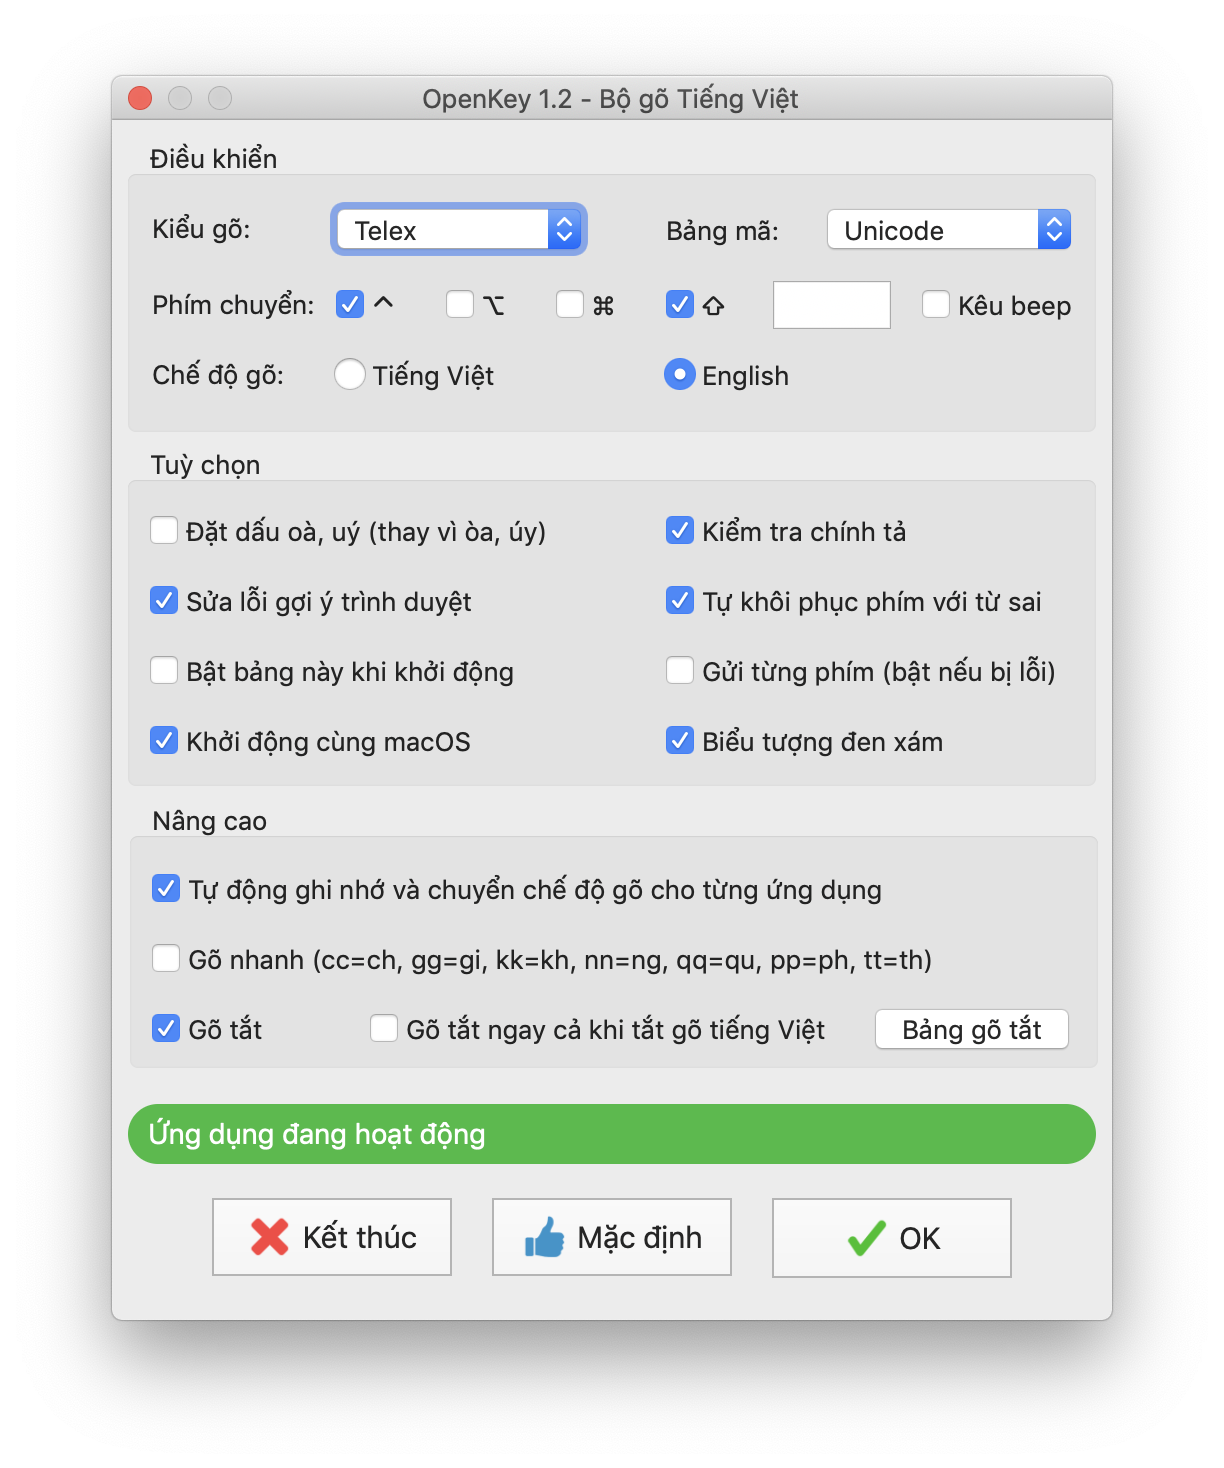
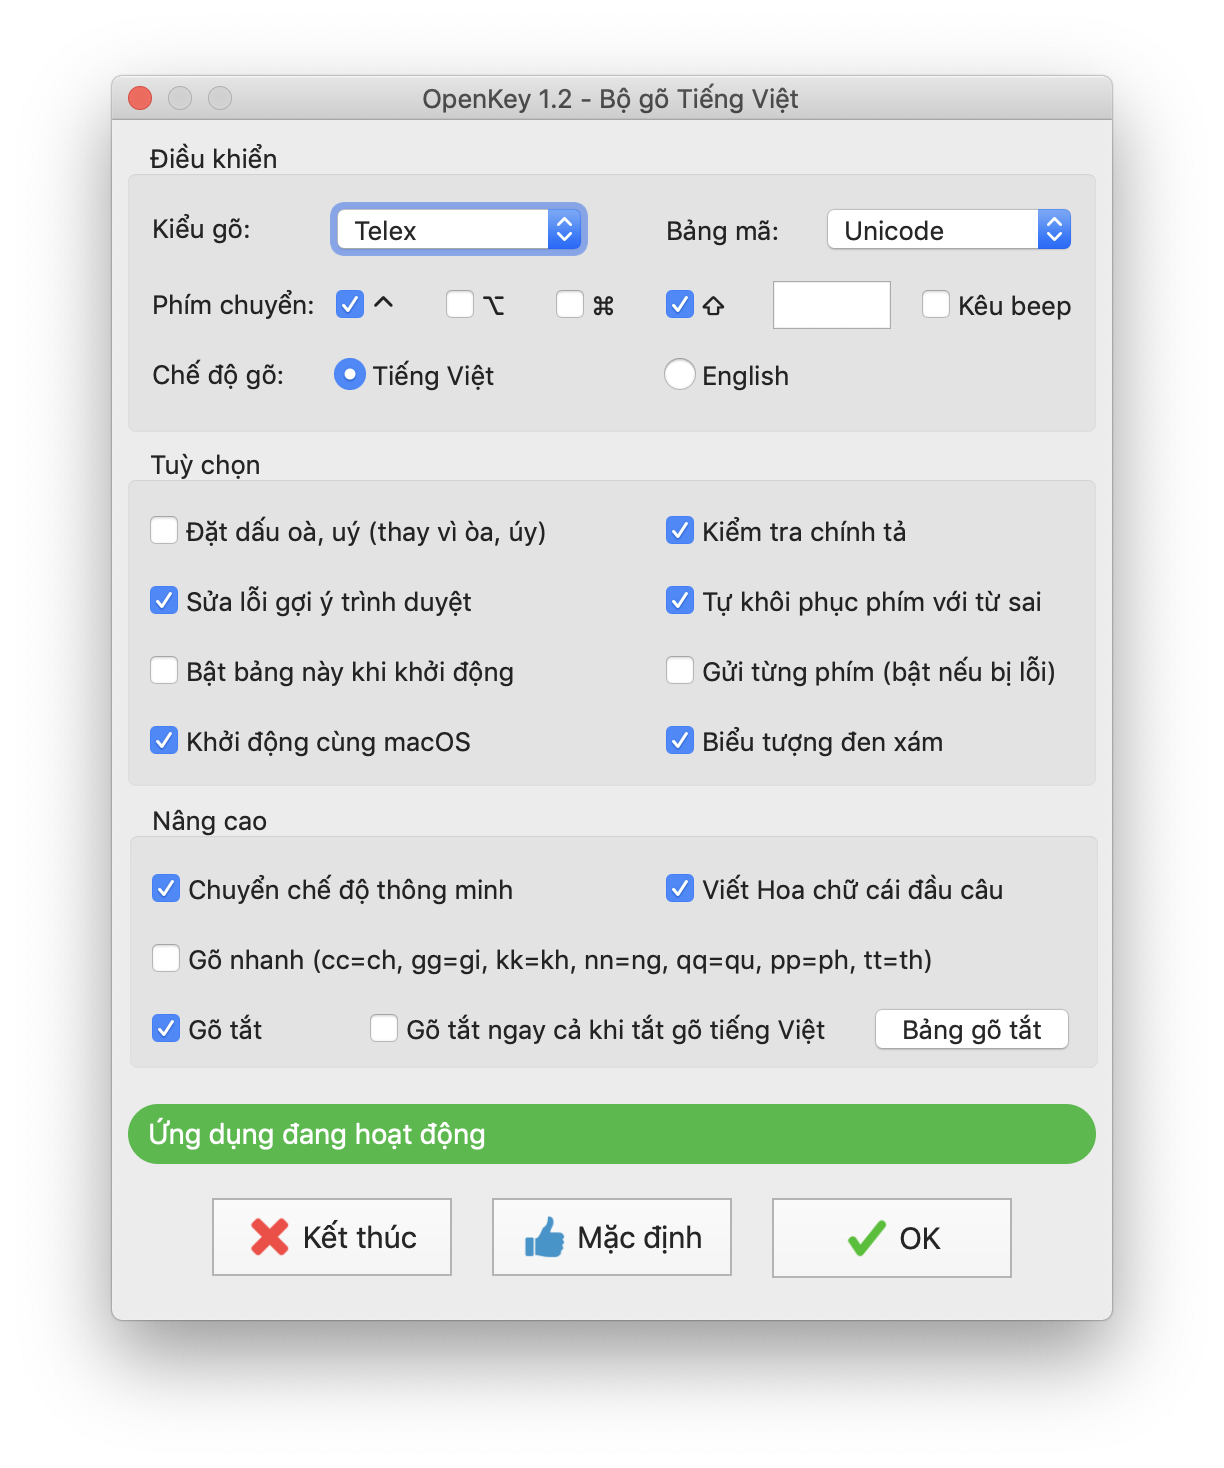
implement feature #64 - auto write uppercase for first letter

Changed region(s): [[0.1552, 0.5824, 0.8072, 0.6131], [0.5278, 0.2452, 0.5899, 0.2759], [0.2794, 0.2452, 0.3105, 0.2759]]

diff --git a/Sources/OpenKey/engine/Engine.cpp b/Sources/OpenKey/engine/Engine.cpp
@@ -13,7 +13,7 @@
 
 static vector<Uint8> _charKeyCode = {
     50, KEY_1, KEY_2, KEY_3, KEY_4, KEY_5, KEY_6, KEY_7, KEY_8, KEY_9, KEY_0, 25, 29, 27, 24, KEY_LEFT_BRACKET, KEY_RIGHT_BRACKET, 42,
-    41, 39, 43, 47, 44
+    41, 39, 43, KEY_DOT, 44
 };
 
 static vector<Uint8> _breakCode = {
@@ -96,6 +96,7 @@ static bool isCheckedGrammar;
 static bool _isCaps = false;
 static int _spaceCount = 0; //add: July 30th, 2019
 static bool _hasHandledMacro = false; //for macro flag August 9th, 2019
+static Byte _upperCaseStatus = 0; //for Write upper case for the first letter; 2: will upper case
 
 //function prototype
 void findAndCalculateVowel(const bool& forGrammar=false);
@@ -638,6 +639,7 @@ void insertD(const Uint16& data, const bool& isCaps) {
             if (TypingWord[ii] & TONE_MASK) {
                 //restore and disable temporary
                 hCode = vRestore;
+                TypingWord[ii] &= ~TONE_MASK;
                 hData[_index - 1 - ii] = TypingWord[ii];
                 tempDisableKey = true;
                 break;
@@ -855,6 +857,17 @@ void checkForStandaloneChar(const Uint16& data, const bool& isCaps, const Uint32
     }
     
     insertKey(data, isCaps);
+}
+
+void upperCaseFirstCharacter() {
+    if (!(TypingWord[0] & CAPS_MASK)) {
+        hCode = vWillProcess;
+        hBPC = 0;
+        hNCC = 1;
+        TypingWord[0] |= CAPS_MASK;
+        hData[0] = GET(TypingWord[0]);
+        _upperCaseStatus = 0;
+    }
 }
 
 void handleMainKey(const Uint16& data, const bool& isCaps) {
@@ -1087,6 +1100,14 @@ void vKeyHandleEvent(const vKeyEvent& event,
             }
         }
         
+        if (vUpperCaseFirstChar) {
+            if (data == KEY_DOT)
+                _upperCaseStatus = 1;
+            else if (data == KEY_ENTER || data == KEY_RETURN)
+                _upperCaseStatus = 2;
+            else
+                _upperCaseStatus = 0;
+        }
     } else if (data == KEY_SPACE) {
         if (!tempDisableKey && vCheckSpelling) {
             checkSpelling(true); //force check spelling
@@ -1107,6 +1128,9 @@ void vKeyHandleEvent(const vKeyEvent& event,
         }
         if (vUseMacro) {
             hMacroKey.clear();
+        }
+        if (vUpperCaseFirstChar && _upperCaseStatus == 1) {
+            _upperCaseStatus = 2;
         }
     } else if (data == KEY_DELETE) {
         hCode = vDoNothing;
@@ -1187,6 +1211,13 @@ void vKeyHandleEvent(const vKeyEvent& event,
                     hMacroKey.push_back(TypingWord[i]);
                 }
             }
+        }
+        
+        if (vUpperCaseFirstChar) {
+            if (_index == 1 && _upperCaseStatus == 2) {
+                upperCaseFirstCharacter();
+            }
+            _upperCaseStatus = 0;
         }
     }
     

diff --git a/Sources/OpenKey/macOS/ModernKey/ViewController.m b/Sources/OpenKey/macOS/ModernKey/ViewController.m
@@ -25,6 +25,7 @@ extern int vUseMacro;
 extern int vUseMacroInEnglishMode;
 extern int vSendKeyStepByStep;
 extern int vUseSmartSwitchKey;
+extern int vUpperCaseFirstChar;
 
 @implementation ViewController {
     __weak IBOutlet NSButton *CustomSwitchCommand;
@@ -233,6 +234,10 @@ extern int vUseSmartSwitchKey;
     vUseSmartSwitchKey = (int)val;
 }
 
+- (IBAction)onUpperCaseFirstChar:(NSButton *)sender {
+    NSInteger val = [self setCustomValue:sender keyToSet:@"UpperCaseFirstChar"];
+    vUpperCaseFirstChar = (int)val;
+}
 
 - (IBAction)onTerminateApp:(id)sender {
     [NSApp terminate:0];
@@ -292,6 +297,9 @@ extern int vUseSmartSwitchKey;
     
     NSInteger useSmartSwitchKey = [[NSUserDefaults standardUserDefaults] integerForKey:@"UseSmartSwitchKey"];
     self.AutoRememberSwitchKey.state = useSmartSwitchKey ? NSControlStateValueOn : NSControlStateValueOff;
+    
+    NSInteger upperCaseFirstChar = [[NSUserDefaults standardUserDefaults] integerForKey:@"UpperCaseFirstChar"];
+    self.UpperCaseFirstChar.state = upperCaseFirstChar ? NSControlStateValueOn : NSControlStateValueOff;
     
     CustomSwitchControl.state = (vSwitchKeyStatus & 0x100) ? NSControlStateValueOn : NSControlStateValueOff;
     CustomSwitchOption.state = (vSwitchKeyStatus & 0x200) ? NSControlStateValueOn : NSControlStateValueOff;

diff --git a/Sources/OpenKey/engine/Engine.h b/Sources/OpenKey/engine/Engine.h
@@ -117,6 +117,13 @@ extern int vUseMacroInEnglishMode;
 extern int vUseSmartSwitchKey;
 
 /**
+ * Auto write upper case character for first letter.
+ * 0: No
+ * 1: Yes
+ */
+extern int vUpperCaseFirstChar;
+
+/**
  * Call this function first to receive data pointer
  */
 void* vKeyInit();

diff --git a/Sources/OpenKey/macOS/ModernKey/AppDelegate.m b/Sources/OpenKey/macOS/ModernKey/AppDelegate.m
@@ -32,6 +32,7 @@ int vUseMacro = 1;
 int vUseMacroInEnglishMode = 1;
 int vSendKeyStepByStep = 0;
 int vUseSmartSwitchKey = 0;
+int vUpperCaseFirstChar = 0;
 
 @interface AppDelegate ()
 
@@ -88,6 +89,7 @@ int vUseSmartSwitchKey = 0;
     vUseMacroInEnglishMode = (int)[[NSUserDefaults standardUserDefaults] integerForKey:@"UseMacroInEnglishMode"];
     vSendKeyStepByStep = (int)[[NSUserDefaults standardUserDefaults] integerForKey:@"SendKeyStepByStep"];
     vUseSmartSwitchKey = (int)[[NSUserDefaults standardUserDefaults] integerForKey:@"UseSmartSwitchKey"];
+    vUpperCaseFirstChar = (int)[[NSUserDefaults standardUserDefaults] integerForKey:@"UpperCaseFirstChar"];
     
     //init
     dispatch_async(dispatch_get_main_queue(), ^{
@@ -173,6 +175,7 @@ int vUseSmartSwitchKey = 0;
     vUseMacroInEnglishMode = 0; [[NSUserDefaults standardUserDefaults] setInteger:vUseMacroInEnglishMode forKey:@"UseMacroInEnglishMode"];
     vSendKeyStepByStep = 0;[[NSUserDefaults standardUserDefaults] setInteger:vUseMacroInEnglishMode forKey:@"SendKeyStepByStep"];
     vUseSmartSwitchKey = 0;[[NSUserDefaults standardUserDefaults] setInteger:vUseSmartSwitchKey forKey:@"UseSmartSwitchKey"];
+    vUpperCaseFirstChar = 0;[[NSUserDefaults standardUserDefaults] setInteger:vUpperCaseFirstChar forKey:@"UpperCaseFirstChar"];
     
     [self fillData];
     [viewController fillData];

diff --git a/Sources/OpenKey/engine/DataType.h b/Sources/OpenKey/engine/DataType.h
@@ -134,6 +134,7 @@ struct vKeyHookState {
 
 #define KEY_LEFT_SHIFT                          57
 #define KEY_RIGHT_SHIFT                         60
+#define KEY_DOT                                 47
 
 //internal engine data
 #define CAPS_MASK                               0x10000

diff --git a/Sources/OpenKey/macOS/ModernKey/ViewController.h b/Sources/OpenKey/macOS/ModernKey/ViewController.h
@@ -38,6 +38,7 @@
 
 @property (weak) IBOutlet NSButton *SendKeyStepByStep;
 @property (weak) IBOutlet NSButton *AutoRememberSwitchKey;
+@property (weak) IBOutlet NSButton *UpperCaseFirstChar;
 
 @property (weak) IBOutlet NSImageView *cursorImage;
 

diff --git a/README.md b/README.md
@@ -34,8 +34,9 @@ Bộ gõ tiếng Việt mới cho macOS, sử dụng kỹ thuật backkey. Loạ
 - **Autocorrect fixed** (On/Off) - Sửa lỗi autocorrect trên trình duyệt như Chrome, Safari, Firefox, Microsoft Excel.
 - **Underline issue fixed on macOS** - Sửa lỗi gạch chân trên macOS.
 - **Macro** - Tính năng gõ tắt vô cùng tiện lợi. Gõ tắt của macOS chỉ hỗ trợ 20 ký tự, còn OpenKey không giới hạn ký tự.
-- **Tự động ghi nhớ ngôn ngữ cho từng ứng dụng:** (Có trên bản >1.2). Bạn đang dùng chế độ gõ Tiếng Việt trên ứng dụng A, bạn chuyển qua ứng dụng B trước đó bạn dùng chế độ gõ Tiếng Anh, OpenKey sẽ tự động chuyển qua chế độ gõ Tiếng Anh cho bạn, khi bạn quay lại ứng dụng A, OpenKey tất nhiên sẽ chuyển lại chế độ gõ tiếng Việt, rất cơ động.
-- **Chế độ “Gửi từng phím”:** OpenKey bản mới >1.1 mặc định dùng kỹ thuật mới gửi dữ liệu 1 lần thay vì gửi nhiều lần cho chuỗi ký tự, nên nếu có ứng dụng nào không tương thích, hãy bật tính năng này lên, mặc định thì nên tắt vì kỹ thuật mới sẽ chạy nhanh hơn.
+- **Chuyển chế độ thông minh:** (on/off) (Bản 1.2 về sau) - Bạn đang dùng chế độ gõ Tiếng Việt trên ứng dụng A, bạn chuyển qua ứng dụng B trước đó bạn dùng chế độ gõ Tiếng Anh, OpenKey sẽ tự động chuyển qua chế độ gõ Tiếng Anh cho bạn, khi bạn quay lại ứng dụng A, OpenKey tất nhiên sẽ chuyển lại chế độ gõ tiếng Việt, rất cơ động.
+- **Viết Hoa chữ cái đầu câu** (on/off) (Bản 1.2 về sau) - Khi gõ văn bản dài, đôi khi bạn quên ghi hoa chữ cái đầu câu khi kết thúc một câu hoặc khi xuống hàng, tính năng này sẽ tự ghi hoa chữ cái đầu câu cho bạn, thật tuyệt vời.
+- **Chế độ “Gửi từng phím”:** (Bản 1.1 về sau) mặc định dùng kỹ thuật mới gửi dữ liệu 1 lần thay vì gửi nhiều lần cho chuỗi ký tự, nên nếu có ứng dụng nào không tương thích, hãy bật tính năng này lên, mặc định thì nên tắt vì kỹ thuật mới sẽ chạy nhanh hơn.
 - ...
 
 ### Download Binary - Tải xuống: 